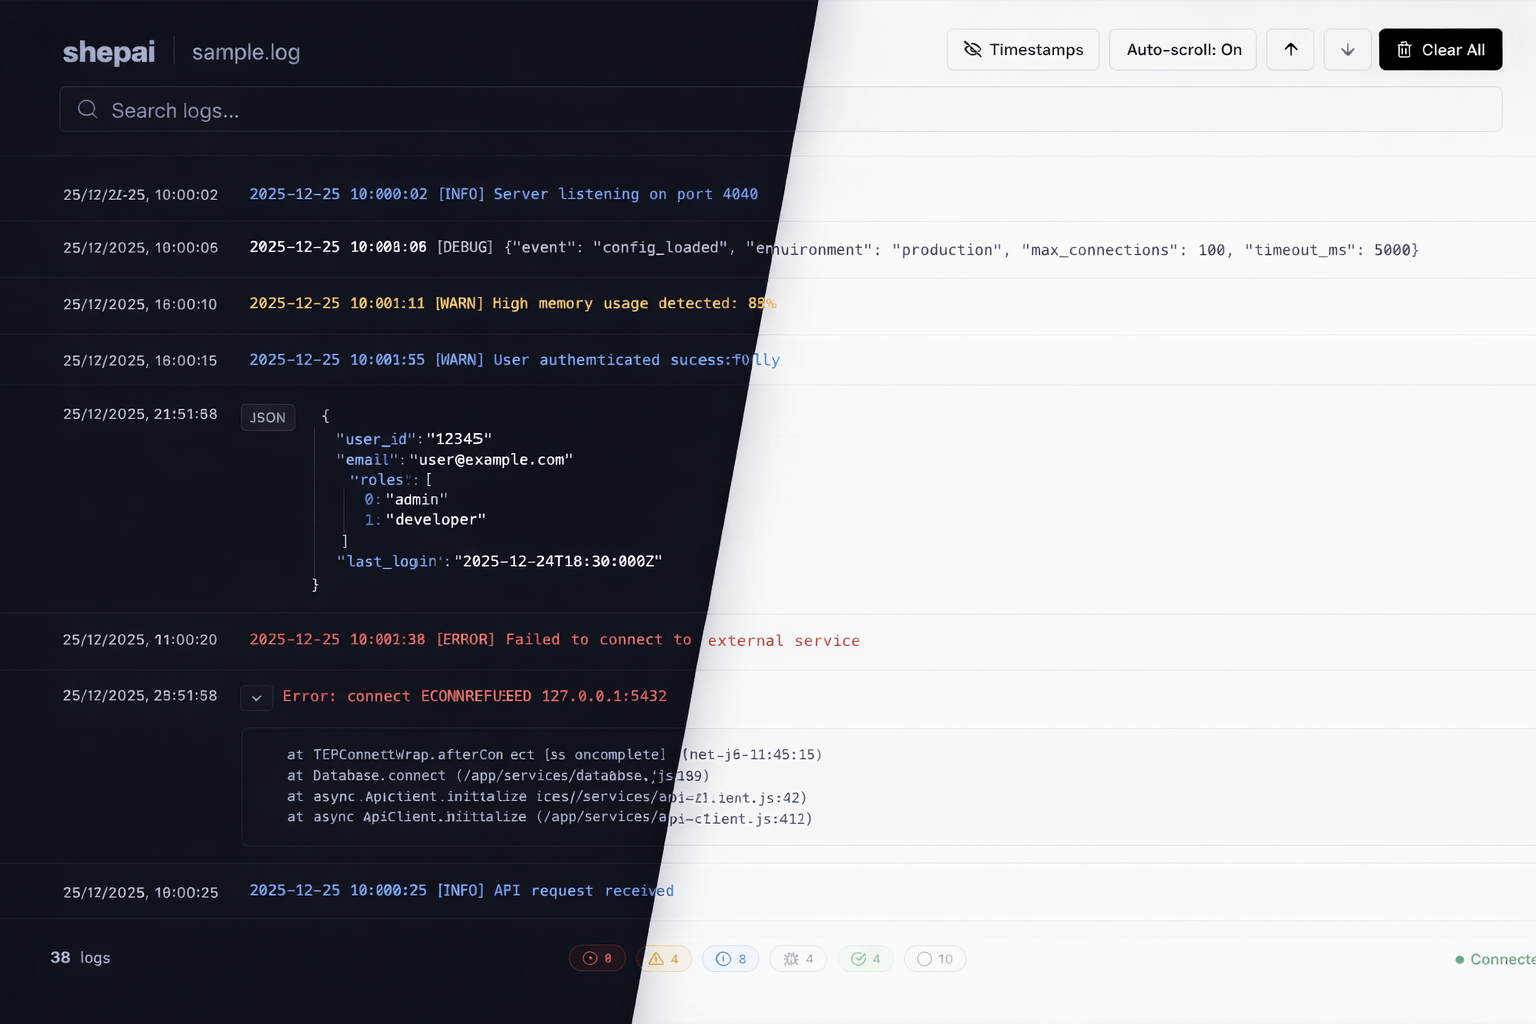
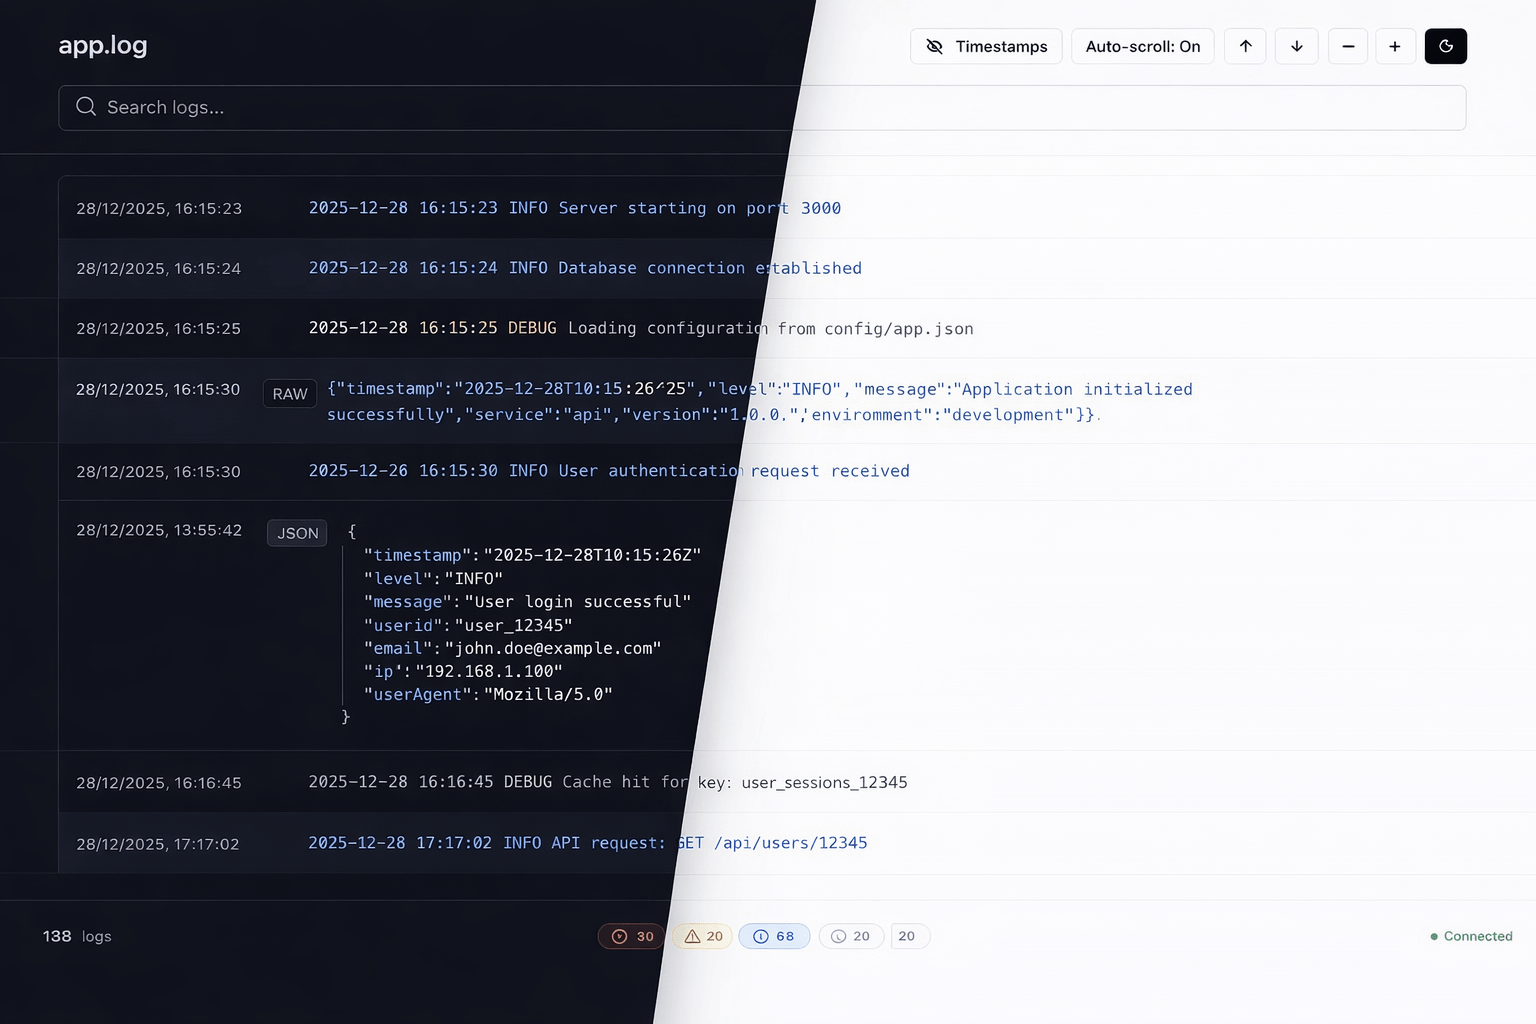
Enhance installation guide with Linux support, detailed Windows instructions, and new demo images.

diff --git a/src/App.tsx b/src/App.tsx
@@ -4,7 +4,6 @@ import { Card, CardContent, CardDescription, CardHeader, CardTitle } from "@/com
 
 import { HeroAnimation } from "@/components/HeroAnimation"
 import {
-  Download,
   Play,
   FileText,
   Container,
@@ -19,12 +18,13 @@ import {
   Check,
   ChevronRight,
   Copy,
-  Check as CheckCopy
+  Check as CheckCopy,
+  Terminal
 } from "lucide-react"
 import logoSvg from "/logo.svg"
 
 function App() {
-  const [platform, setPlatform] = useState<"macos" | "windows">("macos")
+  const [platform, setPlatform] = useState<"macos" | "linux" | "windows">("macos")
   const [copiedCommand, setCopiedCommand] = useState<string | null>(null)
 
   const copyToClipboard = (command: string) => {
@@ -113,12 +113,18 @@ function App() {
           </div>
 
           {/* Platform Selector */}
-          <div className="flex justify-center gap-2 mb-8">
+          <div className="flex justify-center gap-2 mb-8 flex-wrap">
             <Button
               variant={platform === "macos" ? "default" : "outline"}
               onClick={() => setPlatform("macos")}
             >
-              macOS & Linux
+              macOS
+            </Button>
+            <Button
+              variant={platform === "linux" ? "default" : "outline"}
+              onClick={() => setPlatform("linux")}
+            >
+              Linux
             </Button>
             <Button
               variant={platform === "windows" ? "default" : "outline"}
@@ -128,88 +134,183 @@ function App() {
             </Button>
           </div>
 
-          <Card className="mb-8">
-            <CardHeader>
-              <CardTitle className="flex items-center gap-2">
-                <Download className="w-5 h-5" />
+          <Card className="mb-8 overflow-hidden">
+            <CardHeader className="bg-muted/30">
+              <CardTitle>
                 Quick Install
               </CardTitle>
               <CardDescription>
-                {platform === "macos"
-                  ? "Run this command in your terminal"
-                  : "Download and extract the zip file"}
+                {platform === "windows" 
+                  ? "Choose the method that works best for you"
+                  : "Run this command in your terminal"}
               </CardDescription>
             </CardHeader>
-            <CardContent>
-              {platform === "macos" ? (
-                <div className="relative group">
-                  <div className="bg-muted p-4 rounded-lg font-mono text-sm overflow-x-auto pr-12">
-                    <code className="text-green-600">curl -fsSL</code>{" "}
-                    <code className="text-blue-600">
-                      https://raw.githubusercontent.com/arifszn/shepai/main/install.sh
-                    </code>{" "}
-                    <code className="text-green-600">| bash</code>
+            <CardContent className="p-6">
+              {(platform === "macos" || platform === "linux") ? (
+                <div className="space-y-6">
+                  <div>
+                    <h3 className="text-sm font-medium mb-3 text-muted-foreground flex items-center gap-2">
+                      <Terminal className="w-4 h-4" />
+                      Install Command
+                    </h3>
+                    <div className="relative group">
+                      <div className="bg-muted p-4 rounded-lg font-mono text-sm overflow-x-auto pr-12">
+                        <code className="text-green-600">curl -fsSL</code>{" "}
+                        <code className="text-blue-600">
+                          https://raw.githubusercontent.com/arifszn/shepai/main/install.sh
+                        </code>{" "}
+                        <code className="text-green-600">| bash</code>
+                      </div>
+                      <button
+                        onClick={() => copyToClipboard("curl -fsSL https://raw.githubusercontent.com/arifszn/shepai/main/install.sh | bash")}
+                        className="absolute right-2 top-2 p-2 rounded-md hover:bg-background/80 transition-colors"
+                        title="Copy to clipboard"
+                      >
+                        {copiedCommand === "curl -fsSL https://raw.githubusercontent.com/arifszn/shepai/main/install.sh | bash" ? (
+                          <CheckCopy className="w-4 h-4 text-green-600" />
+                        ) : (
+                          <Copy className="w-4 h-4 text-muted-foreground" />
+                        )}
+                      </button>
+                    </div>
                   </div>
-                  <button
-                    onClick={() => copyToClipboard("curl -fsSL https://raw.githubusercontent.com/arifszn/shepai/main/install.sh | bash")}
-                    className="absolute right-2 top-1/2 -translate-y-1/2 p-2 rounded-md hover:bg-background/80 transition-colors"
-                    title="Copy to clipboard"
-                  >
-                    {copiedCommand === "curl -fsSL https://raw.githubusercontent.com/arifszn/shepai/main/install.sh | bash" ? (
-                      <CheckCopy className="w-4 h-4 text-green-600" />
-                    ) : (
-                      <Copy className="w-4 h-4 text-muted-foreground" />
-                    )}
-                  </button>
                 </div>
               ) : (
-                <div className="space-y-4">
-                  <ol className="list-decimal list-inside space-y-2 text-sm">
-                    <li>
-                      Download the{" "}
-                      <a
-                        href="https://github.com/arifszn/shepai/releases/latest"
-                        className="text-primary hover:underline"
-                        target="_blank"
-                        rel="noopener noreferrer"
+                <div className="space-y-10">
+                  {/* Windows Option 1 */}
+                  <div>
+                    <div className="flex items-center gap-2 mb-4">
+                      <div className="w-6 h-6 rounded bg-primary/10 flex items-center justify-center text-primary">
+                        <span className="text-xs font-bold">1</span>
+                      </div>
+                      <h3 className="font-semibold text-lg flex items-center gap-2">
+                        <Terminal className="w-5 h-5" />
+                        PowerShell Script (Recommended)
+                      </h3>
+                    </div>
+                    
+                    <div className="relative group mb-4">
+                      <div className="bg-muted p-4 rounded-lg font-mono text-sm overflow-x-auto pr-12">
+                        <span className="text-blue-600">irm</span>{" "}
+                        <span className="text-foreground">https://raw.githubusercontent.com/arifszn/shepai/main/install.ps1</span>{" "}
+                        <span className="text-blue-600">| iex</span>
+                      </div>
+                      <button
+                        onClick={() => copyToClipboard("irm https://raw.githubusercontent.com/arifszn/shepai/main/install.ps1 | iex")}
+                        className="absolute right-2 top-2 p-2 rounded-md hover:bg-background/80 transition-colors"
+                        title="Copy to clipboard"
                       >
-                        shepai-windows-amd64.zip
-                      </a>{" "}
-                      asset
-                    </li>
-                    <li>Extract it to a folder of your choice</li>
-                    <li>Open a terminal in the extracted directory</li>
-                  </ol>
+                        {copiedCommand === "irm https://raw.githubusercontent.com/arifszn/shepai/main/install.ps1 | iex" ? (
+                          <CheckCopy className="w-4 h-4 text-green-600" />
+                        ) : (
+                          <Copy className="w-4 h-4 text-muted-foreground" />
+                        )}
+                      </button>
+                    </div>
+
+                    <div className="bg-muted/50 rounded-lg p-4 border text-sm">
+                      <p className="font-medium mb-2">Verify the installation (restart your terminal first):</p>
+                      <div className="relative group">
+                        <code className="font-mono block bg-background px-3 py-2 rounded border">shepai --version</code>
+                        <button
+                          onClick={() => copyToClipboard("shepai --version")}
+                          className="absolute right-2 top-2 p-1.5 rounded-md hover:bg-muted transition-colors"
+                        >
+                          {copiedCommand === "shepai --version" ? (
+                            <CheckCopy className="w-3 h-3 text-green-600" />
+                          ) : (
+                            <Copy className="w-3 h-3 text-muted-foreground" />
+                          )}
+                        </button>
+                      </div>
+                    </div>
+                  </div>
+
+                  <div className="h-px bg-border" />
+
+                  {/* Windows Option 2 */}
+                  <div>
+                    <div className="flex items-center gap-2 mb-4">
+                      <div className="w-6 h-6 rounded bg-primary/10 flex items-center justify-center text-primary">
+                        <span className="text-xs font-bold">2</span>
+                      </div>
+                      <h3 className="font-semibold text-lg">Manual Installation</h3>
+                    </div>
+
+                    <div className="space-y-4 mb-6">
+                      <ol className="list-decimal list-inside space-y-3 text-sm ml-1">
+                        <li>
+                          Download the{" "}
+                          <a
+                            href="https://github.com/arifszn/shepai/releases/latest"
+                            className="text-primary hover:underline font-medium"
+                            target="_blank"
+                            rel="noopener noreferrer"
+                          >
+                            shepai-windows-amd64.zip
+                          </a>{" "}
+                          asset from the latest release
+                        </li>
+                        <li>Extract the archive to your preferred location</li>
+                        <li>Open a terminal in the extracted directory</li>
+                      </ol>
+                    </div>
+
+                    <div className="bg-muted/50 rounded-lg p-4 border text-sm mb-4">
+                      <p className="font-medium mb-2">Verify the installation:</p>
+                      <div className="relative group">
+                        <code className="font-mono block bg-background px-3 py-2 rounded border">.\shepai.exe --version</code>
+                        <button
+                          onClick={() => copyToClipboard(".\\shepai.exe --version")}
+                          className="absolute right-2 top-2 p-1.5 rounded-md hover:bg-muted transition-colors"
+                        >
+                          {copiedCommand === ".\\shepai.exe --version" ? (
+                            <CheckCopy className="w-3 h-3 text-green-600" />
+                          ) : (
+                            <Copy className="w-3 h-3 text-muted-foreground" />
+                          )}
+                        </button>
+                      </div>
+                    </div>
+
+                    <div className="bg-yellow-50 dark:bg-yellow-900/20 text-yellow-800 dark:text-yellow-200 p-3 rounded-lg text-sm border border-yellow-200 dark:border-yellow-900/50">
+                      <strong className="font-semibold">Note:</strong> For system-wide access, add the extracted directory to your PATH environment variable.
+                    </div>
+                  </div>
                 </div>
               )}
             </CardContent>
           </Card>
 
           {/* Verify Installation */}
-          <Card>
-            <CardHeader>
-              <CardTitle>Verify Installation</CardTitle>
-              <CardDescription>Make sure shepai is installed correctly</CardDescription>
-            </CardHeader>
-            <CardContent>
-              <div className="relative group">
-                <div className="bg-muted p-4 rounded-lg font-mono text-sm pr-12">
-                  <code>{platform === "macos" ? "shepai --version" : ".\\shepai.exe --version"}</code>
+          
+          {/* Verify Installation - Only for macOS/Linux here since Windows has it embedded */}
+          {(platform === "macos" || platform === "linux") && (
+            <Card>
+              <CardHeader>
+                <CardTitle className="text-lg">Verify Installation</CardTitle>
+                <CardDescription>Make sure shepai is installed correctly</CardDescription>
+              </CardHeader>
+              <CardContent>
+                <div className="relative group">
+                  <div className="bg-muted p-4 rounded-lg font-mono text-sm pr-12">
+                    <code>shepai --version</code>
+                  </div>
+                  <button
+                    onClick={() => copyToClipboard("shepai --version")}
+                    className="absolute right-2 top-2 p-2 rounded-md hover:bg-background/80 transition-colors"
+                    title="Copy to clipboard"
+                  >
+                    {copiedCommand === "shepai --version" ? (
+                      <CheckCopy className="w-4 h-4 text-green-600" />
+                    ) : (
+                      <Copy className="w-4 h-4 text-muted-foreground" />
+                    )}
+                  </button>
                 </div>
-                <button
-                  onClick={() => copyToClipboard(platform === "macos" ? "shepai --version" : ".\\shepai.exe --version")}
-                  className="absolute right-2 top-1/2 -translate-y-1/2 p-2 rounded-md hover:bg-background/80 transition-colors"
-                  title="Copy to clipboard"
-                >
-                  {copiedCommand === (platform === "macos" ? "shepai --version" : ".\\shepai.exe --version") ? (
-                    <CheckCopy className="w-4 h-4 text-green-600" />
-                  ) : (
-                    <Copy className="w-4 h-4 text-muted-foreground" />
-                  )}
-                </button>
-              </div>
-            </CardContent>
-          </Card>
+              </CardContent>
+            </Card>
+          )}
         </div>
       </section>
 
@@ -243,7 +344,7 @@ function App() {
                   </div>
                   <button
                     onClick={() => copyToClipboard("shepai file storage/logs/app.log")}
-                    className="absolute right-2 top-1/2 -translate-y-1/2 p-2 rounded-md hover:bg-background/80 transition-colors"
+                    className="absolute right-2 top-2 p-2 rounded-md hover:bg-background/80 transition-colors"
                     title="Copy to clipboard"
                   >
                     {copiedCommand === "shepai file storage/logs/app.log" ? (
@@ -281,7 +382,7 @@ function App() {
                   </div>
                   <button
                     onClick={() => copyToClipboard("shepai docker my_container")}
-                    className="absolute right-2 top-1/2 -translate-y-1/2 p-2 rounded-md hover:bg-background/80 transition-colors"
+                    className="absolute right-2 top-2 p-2 rounded-md hover:bg-background/80 transition-colors"
                     title="Copy to clipboard"
                   >
                     {copiedCommand === "shepai docker my_container" ? (
@@ -318,7 +419,7 @@ function App() {
                 </div>
                 <button
                   onClick={() => copyToClipboard("shepai docker app --port 8080")}
-                  className="absolute right-2 top-1/2 -translate-y-1/2 p-2 rounded-md hover:bg-background/80 transition-colors"
+                  className="absolute right-2 top-2 p-2 rounded-md hover:bg-background/80 transition-colors"
                   title="Copy to clipboard"
                 >
                   {copiedCommand === "shepai docker app --port 8080" ? (

diff --git a/src/components/Terminal.tsx b/src/components/Terminal.tsx
@@ -14,7 +14,7 @@ export function Terminal({ className, onComplete }: TerminalProps) {
     if (!typedRef.current) return
 
     const typed = new Typed(typedRef.current, {
-      strings: ["shepai file sample.log"],
+      strings: ["shepai file app.log"],
       typeSpeed: 50,
       backSpeed: 30,
       smartBackspace: true,
